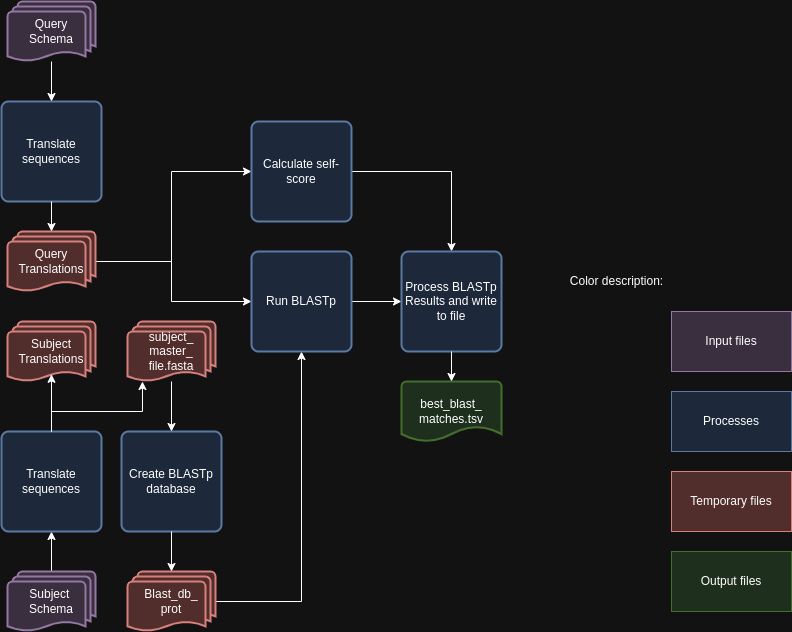
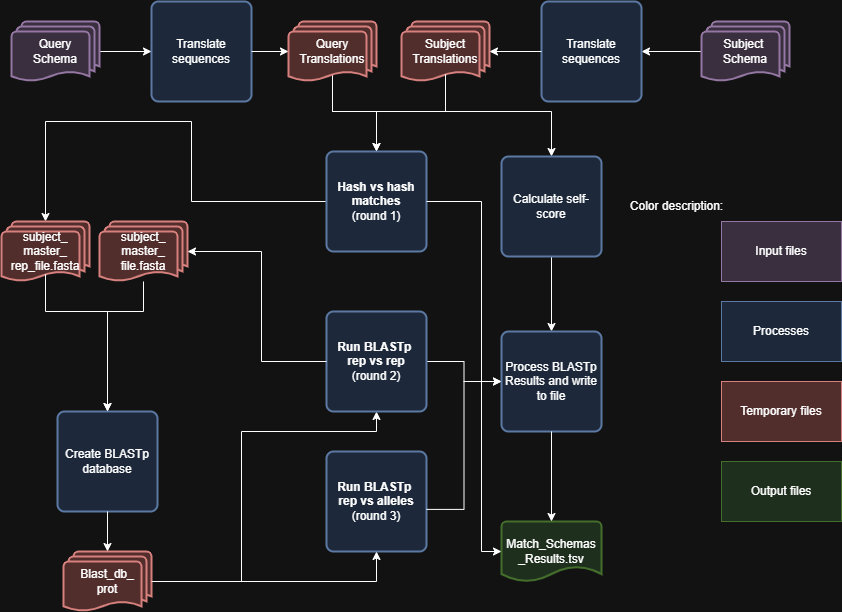
Feat (documentation): New and updated Match Schemas documentation and tutorial

diff --git a/SchemaRefinery/docs/SchemaRefinery/Modules/MatchSchemas.rst b/SchemaRefinery/docs/SchemaRefinery/Modules/MatchSchemas.rst
@@ -11,7 +11,6 @@ Features
 
 - Configurable parameters for the matching process.
 - Support for parallel processing using multiple CPUs.
-- Option to chose the processing mode.
 - Option to skip cleanup after running the module.
 
 Dependencies
@@ -32,18 +31,18 @@ The `MatchSchemas` module can be used as follows:
 
 .. code-block:: bash
 
-    SR MatchSchemas -qs /path/to/query_schema -ss /path/to/subject_schema -o /path/to/output -c 4 -b 0.6 -tt 11 -pm alleles_vs_alleles --nocleanup
+    SR MatchSchema -fs /path/to/first_schema -ss /path/to/second_schema -o /path/to/output_folder -c 6 -b 0.5 --nocleanup
 
 Command-Line Arguments
 ----------------------
 
 ::
 
-    -qs, --query-schema-directory
-        (Required) Folder that contains the query schema.
+    -fs, --first-schema-directory
+        (Required) Folder that contains the first schema to identify paralogous loci.
 
-    -ss, --subject-schema-directory
-        (Required) Folder that contains the subject schema.
+    -ss, --second-schema-directory
+        (Required) Folder that contains the second schema to identify paralogous loci.
 
     -o, --output-directory
         (Required) Path to the directory to which files will be stored.
@@ -59,11 +58,6 @@ Command-Line Arguments
     -tt, --translation-table
         (Optional) Translation table to use for the CDS translation.
         Default: 11
-
-    -pm, --processing-mode
-        (Optional) Mode to run the module.
-        Choices: reps_vs_reps, reps_vs_alleles, alleles_vs_alleles, alleles_vs_reps.
-        Default: alleles_vs_alleles
 
     --nocleanup
         (Optional) Flag to indicate whether to skip cleanup after running the module.
@@ -93,7 +87,9 @@ Folder and file structure for the output directory of the `MatchSchemas` module 
 ::
 
     OutputFolderName
-    ├── Blast # --nocleanup
+    ├── blast_processing # --nocleanup
+    |   ├── subject_master_file.fasta
+    |   ├── subject_master_rep_file.fasta
     │   ├── Blast_db_prot
     │   │   ├── Blast_db_protein.pdb
     │   │   ├── Blast_db_protein.phr
@@ -109,23 +105,43 @@ Folder and file structure for the output directory of the `MatchSchemas` module 
     │   │   ├── blast_results_y.tsv
     │   │   ├── blast_results_z.tsv
     │   │   └── ...
-    │   ├── subject_master_file.fasta
     │   ├── Query_Translation
-    │   │   ├── query_translations_x.fasta
-    │   │   ├── query_translations_y.fasta
-    │   │   ├── query_translations_z.fasta
+    │   │   ├── x_translation.fasta
+    │   │   ├── y_translation.fasta
+    │   │   ├── z_translation.fasta
+    │   │   └── ...
+    |   ├── Query_Translation_Rep
+    │   │   ├── x_rep_translation.fasta
+    │   │   ├── y_rep_translation.fasta
+    │   │   ├── z_rep_translation.fasta
+    │   │   └── ...
+    |   ├── Query_Not_Translated
+    │   │   ├── x_not_translated.fasta
+    │   │   ├── y_not_translated.fasta
+    │   │   ├── z_not_translated.fasta
+    │   │   └── ...
+    |   ├── Query_Not_Translated_Rep
+    │   │   ├── x_rep_not_translated.fasta
+    │   │   ├── y_rep_not_translated.fasta
+    │   │   ├── z_rep_not_translated.fasta
     │   │   └── ...
     │   ├── Subject_Translation
-    │   │   ├── subject_translations_x.fasta
-    │   │   ├── subject_translations_y.fasta
-    │   │   ├── subject_translations_z.fasta
+    │   │   ├── x_translation.fasta
+    │   │   ├── y_translation.fasta
+    │   │   ├── z_translation.fasta
+    │   │   └── ...
+    |   ├── Subject_Translation_Rep
+    │   │   ├── x_rep_translation.fasta
+    │   │   ├── y_rep_translation.fasta
+    │   │   ├── z_rep_translation.fasta
     │   │   └── ...
     │   └── self_score_folder
     │       ├── blast_results_x.tsv
     │       ├── blast_results_y.tsv
     │       ├── blast_results_z.tsv
     │       └── ...
-    └── best_blast_matches.tsv
+    ├── existing_matches.txt
+    └── Match_Schemas_Results.tsv
 
 .. toctree::
    :maxdepth: 1
@@ -135,23 +151,25 @@ Folder and file structure for the output directory of the `MatchSchemas` module 
 Report files description
 ------------------------
 
-.. csv-table:: **best_blast_matches.tsv**
-    :header: "Locus", "Best Match", "BSR"
-    :widths: 30, 30, 10
+.. csv-table:: **Match_Schemas_Results.tsv**
+    :header: "Query", "Subject", "BSR", "Process"
+    :widths: 30, 30, 10, 30
 
-    x, y, 0.8
-    z, a, 1.0
-    b, c, 0.965
-    d, e, 0.94
+    x, y, 0.8, hashes_vs_hashes
+    z, a, 1.0, hashes_vs_hashes
+    b, c, 0.965, rep_vs_rep
+    d, Not Matched, NA, rep_vs_rep
+    Not Matched, e, NA, rep_vs_alleles
     ...
 
 columns description:
 
 ::
     
-    Locus: The locus from the query schema.
-    Best Match: The best match for the locus from the subject schema.
+    Query: The locus from the query schema.
+    Subject: The best match for the locus from the subject schema.
     BSR: The BSR value for the best match.
+    Process: From which type of comparision is this match from.
 
 Examples
 --------
@@ -161,10 +179,10 @@ Here are some example commands to use the `MatchSchemas` module:
 .. code-block:: bash
 
     # Match schemas using default parameters
-    SR MatchSchemas -qs /path/to/query_schema -ss /path/to/subject_schema -o /path/to/output
+    SR MatchSchemas -fs /path/to/first_schema -ss /path/to/second_schema -o /path/to/output_folder
 
     # Match schemas with custom parameters
-    SR MatchSchemas -qs /path/to/query_schema -ss /path/to/subject_schema -o /path/to/output -c 4 -b 0.7 -tt 4 -pm reps_vs_reps --nocleanup
+    SR MatchSchemas -fs /path/to/first_schema -ss /path/to/second_schema -o /path/to/output_folder -c 4 -b 0.7 -tt 4 --nocleanup
 
 Troubleshooting
 ---------------

diff --git a/SchemaRefinery/docs/SchemaRefinery/Modules/MatchSchemasReportExplanation.rst b/SchemaRefinery/docs/SchemaRefinery/Modules/MatchSchemasReportExplanation.rst
@@ -6,8 +6,14 @@ Output files and folders description for the MatchSchemas module
     **OutputFolderName**
         The folder where the output files are stored.
 
-    Blast
+    blast_processing
         Folder containing BLASTp database, BLASTp output files, master file, self-score folder, and translation files.
+
+        subject_master_file.fasta
+            FASTA file containing all of the protein sequences that have not found a match yet used in the analysis (used to create BLAST DB).
+
+        subject_master_rep_file.fasta
+            FASTA file containing all of the representative protein sequences that have not found a match yet used in the analysis (used to create BLAST DB).
 
         Blast_db_prot
             Folder containing the BLASTp database.
@@ -54,11 +60,53 @@ Output files and folders description for the MatchSchemas module
             ...
                 All of the other TSV BLASTp results files.
 
-        subject_master_file.fasta
-            FASTA file containing all of the protein sequences used in the analysis (used to create BLAST DB).
-
         Query_Translation
-            Folder containing the translation files.
+            Folder containing the query translation files.
+            
+            query_translations_x.fasta
+                FASTA file containing the translation for the locus x.
+            
+            query_translations_y.fasta
+                FASTA file containing the translation for the locus y.
+            
+            query_translations_z.fasta
+                FASTA file containing the translation for the locus z.
+            
+            ...
+                All of the other translation files.
+        
+        Query_Translation_Rep
+            Folder containing the representative query translation files.
+            
+            query_translations_x.fasta
+                FASTA file containing the translation for the locus x.
+            
+            query_translations_y.fasta
+                FASTA file containing the translation for the locus y.
+            
+            query_translations_z.fasta
+                FASTA file containing the translation for the locus z.
+            
+            ...
+                All of the other translation files.
+
+        Query_Not_Translated
+            Folder containing the query translation files that were not translated due to any error. If this folder is empty (all translations were sucessful) the folder is deleted. 
+            
+            query_translations_x.fasta
+                FASTA file containing the translation for the locus x.
+            
+            query_translations_y.fasta
+                FASTA file containing the translation for the locus y.
+            
+            query_translations_z.fasta
+                FASTA file containing the translation for the locus z.
+            
+            ...
+                All of the other translation files.
+        
+        Query_Not_Translated_Rep
+            Folder containing the representative query translation files. that were not translated due to any error. If this folder is empty (all translations were sucessful) the folder is deleted. 
             
             query_translations_x.fasta
                 FASTA file containing the translation for the locus x.
@@ -73,7 +121,22 @@ Output files and folders description for the MatchSchemas module
                 All of the other translation files.
 
         Subject_Translation
-            Folder containing the translation files.
+            Folder containing the subject translation files.
+            
+            subject_translations_x.fasta
+                FASTA file containing the translation for the locus x.
+            
+            subject_translations_y.fasta
+                FASTA file containing the translation for the locus y.
+            
+            subject_translations_z.fasta
+                FASTA file containing the translation for the locus z.
+            
+            ...
+                All of the other translation files.
+
+        Subject_Translation_Rep
+            Folder containing the representative subject translation files.
             
             subject_translations_x.fasta
                 FASTA file containing the translation for the locus x.
@@ -102,5 +165,8 @@ Output files and folders description for the MatchSchemas module
             ...
                 All of the other TSV BLASTp for self-score results files.
 
-    **best_blast_matches.tsv**
-        TSV file containing the best BLAST matches for the query and subject schemas.
+    **existing_matches.txt
+        TXT file containing the blast matches from all processes.
+
+    **Match_Schemas_Results.tsv**
+        TSV file containing the best BLAST matches for the query and subject schemas sorted by locus name. Also contains the final non matched locus from both QUery and Subject.

diff --git a/SchemaRefinery/docs/SchemaRefinery/Tutorials/MatchSchemasTutorial.rst b/SchemaRefinery/docs/SchemaRefinery/Tutorials/MatchSchemasTutorial.rst
@@ -12,7 +12,7 @@ Prerequisites
 - SchemaRefinery installed
 - Python 3.9 or higher
 - Biopython library (`pip install biopython`)
-- Download the zenodo file from the link: https://zenodo.org/record/5560007/files/genbank_files.zip
+- Download the schema file from the ChewBACCA tutorial: https://github.com/B-UMMI/chewBBACA_tutorial/blob/master/expected_results/Schema_creation/tutorial_schema.zip
 
 Procedure
 ---------
@@ -23,15 +23,17 @@ Procedure
 
 .. code-block:: bash
 
-    SR MatchSchema -qs 'path/to/files/zenodo/Data/mpneumoniae_schema/mpneumoniae_schema' -ss 'path/to/files/zenodo/Data/mpneumoniae_schema/mpneumoniae_schema' -o 'path/to/files/output_folder/MatchSchemas_Results' -tt 4 -pm alleles_vs_alleles -c 6
+    SR MatchSchema -fs /path/to/tutorial_schema -ss /path/to/tutorial_schema -o path/to/output_folder -c 6 --nocleanup
 
 - Replace `path/to/files/` with the actual path to the files.
+- This will run the tutorial schema against itself.
+- No clean up will leave all the intermediary files in the output folder.
 
 3. Press Enter to execute the command.
 
 4. Wait for the matching process to complete.
 
-5. Check the output folder for the matched schemas (The results are also available in the zenodo files).
+5. Check the output folder for the matched schemas (The output file should have all matches).
 
 Example Output Structure
 ------------------------
